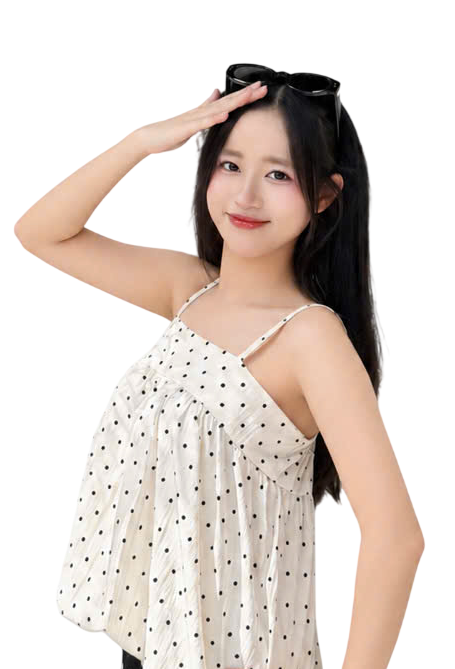
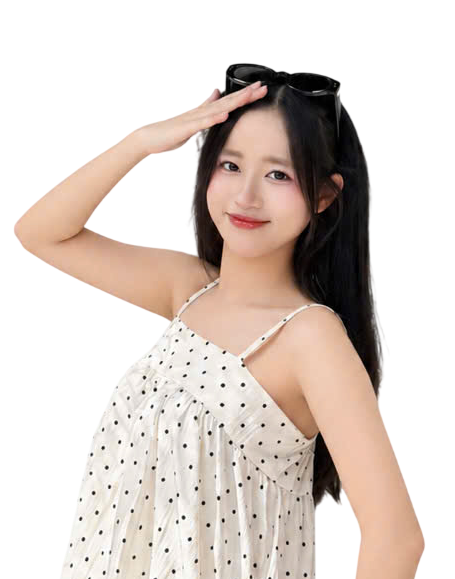
fix 3

diff --git a/index.html b/index.html
@@ -407,12 +407,12 @@
           </div>
 
           <div
-            class="w-full lg:w-5/12 flex flex-col justify-center items-center mt-16 lg:mt-0 lg:translate-x-0 about-animate"
+            class="w-full lg:w-5/12 flex flex-col justify-center items-center mt-20 lg:mt-0 lg:translate-x-0 about-animate"
             style="--delay: 120ms"
           >
             <div class="flex flex-col items-center gap-5">
               <div
-                class="relative w-64 h-64 sm:w-80 sm:h-80 md:w-96 md:h-96 about-animate"
+                class="relative w-64 h-64 sm:w-80 sm:h-80 md:w-96 md:h-96 mt-20 about-animate"
                 style="--delay: 180ms"
               >
                 <div
@@ -441,12 +441,12 @@
                 <img
                   src="image/Nanie.png"
                   alt="Kim Ngân"
-                  class="absolute inset-x-0 bottom-[-100px] mx-auto w-[110%] max-w-none h-auto z-10 object-contain drop-shadow-xl pointer-events-none"
+                  class="absolute inset-x-0 bottom-[-10px] mx-auto w-[100%] max-w-none h-auto z-10 object-contain drop-shadow-xl pointer-events-none"
                 />
               </div>
 
               <div
-                class="flex flex-col items-center gap-5 relative z-20 mt-20 about-animate"
+                class="flex flex-col items-center gap-5 relative z-20 mt-10 about-animate"
                 style="--delay: 260ms"
               >
                 <div
